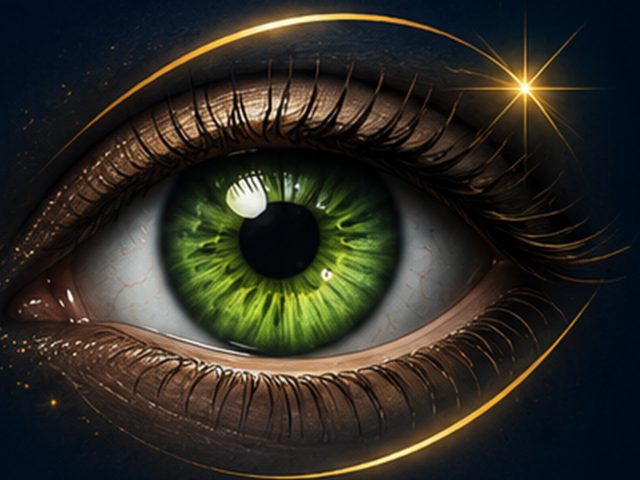
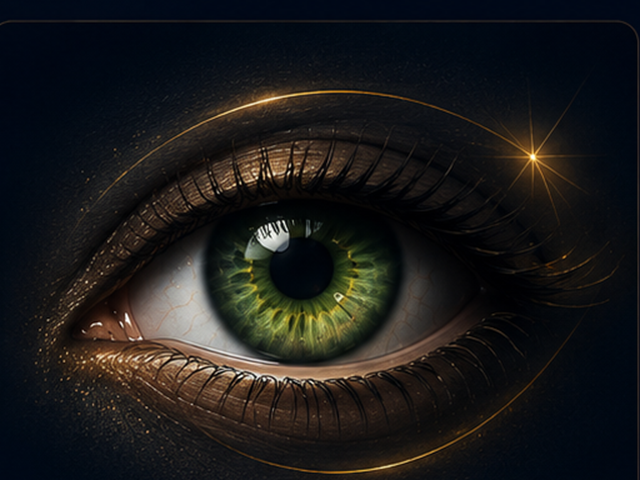
feat: refine Turkish eye category visuals

diff --git a/src/eye-health.css b/src/eye-health.css
@@ -206,19 +206,15 @@
   width: 96px;
   height: 60px;
   margin-bottom: 14px;
-  border-radius: 12px;
+  border-radius: 10px;
   overflow: hidden;
-  background: rgba(5, 17, 34, 0.4);
-  box-shadow:
-    0 2px 10px rgba(0, 0, 0, 0.22),
-    inset 0 0 12px rgba(5, 17, 34, 0.18);
+  background: rgba(5, 17, 34, 0.72);
+  box-shadow: 0 1px 8px rgba(0, 0, 0, 0.18);
   transition: box-shadow 0.25s ease;
 }
 
 .eh-category-card:hover .eh-category-eye-frame {
-  box-shadow:
-    0 4px 14px rgba(0, 0, 0, 0.26),
-    inset 0 0 14px rgba(5, 17, 34, 0.14);
+  box-shadow: 0 2px 10px rgba(0, 0, 0, 0.22);
 }
 
 .eh-category-eye-frame::before {
@@ -228,7 +224,7 @@
   z-index: 2;
   pointer-events: none;
   border-radius: inherit;
-  box-shadow: inset 0 0 16px 2px rgba(5, 17, 34, 0.42);
+  box-shadow: inset 0 0 10px rgba(5, 17, 34, 0.28);
 }
 
 .eh-category-eye-frame::after {
@@ -240,9 +236,9 @@
   border-radius: inherit;
   background: linear-gradient(
     165deg,
-    rgba(5, 17, 34, 0.24) 0%,
-    rgba(5, 17, 34, 0.05) 45%,
-    rgba(5, 17, 34, 0.18) 100%
+    rgba(5, 17, 34, 0.14) 0%,
+    rgba(5, 17, 34, 0.02) 48%,
+    rgba(5, 17, 34, 0.12) 100%
   );
 }
 
@@ -252,9 +248,8 @@
   height: 100%;
   object-fit: cover;
   object-position: center;
-  transform: scale(1.04);
-  -webkit-mask-image: radial-gradient(ellipse 96% 92% at 50% 50%, #000 58%, transparent 100%);
-  mask-image: radial-gradient(ellipse 96% 92% at 50% 50%, #000 58%, transparent 100%);
+  -webkit-mask-image: radial-gradient(ellipse 98% 96% at 50% 50%, #000 72%, transparent 100%);
+  mask-image: radial-gradient(ellipse 98% 96% at 50% 50%, #000 72%, transparent 100%);
 }
 
 .eh-category-card h3 {
